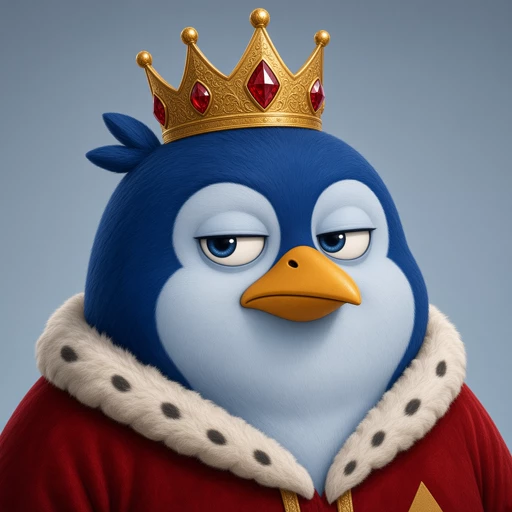
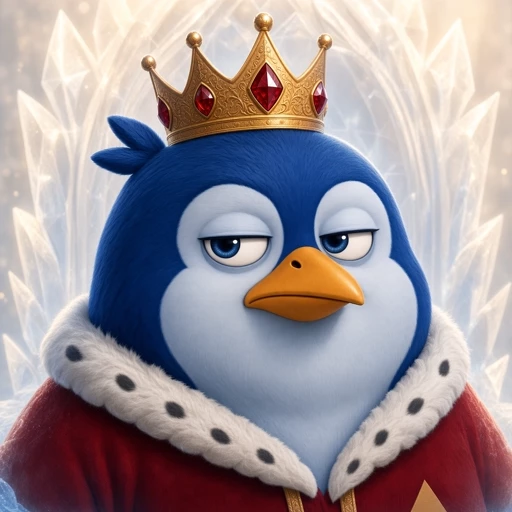
Replace Diddy Kong and King Dedede portraits; reset eye lines
New 512² WebP busts. Drop old focus values and bump art gen so stale Gallery tweaks for them are discarded.

diff --git a/src/lib/portrait-focus.ts b/src/lib/portrait-focus.ts
@@ -53,10 +53,8 @@ export const BUILT_IN_PORTRAIT_FOCUS_Y: Readonly<Record<string, number>> = {
   snake: 39,
   ike: 47,
   "pokemon-trainer": 36,
-  "diddy-kong": 58,
   lucas: 45,
   sonic: 36,
-  "king-dedede": 48,
   olimar: 37,
   lucario: 53,
   rob: 40,
@@ -109,6 +107,8 @@ export const BUILT_IN_PORTRAIT_FOCUS_Y: Readonly<Record<string, number>> = {
  * tweaks for that fighter are discarded.
  */
 export const PORTRAIT_ART_GEN: Readonly<Record<string, number>> = {
+  "diddy-kong": 2,
+  "king-dedede": 2,
   "king-k-rool": 2,
 };
 
